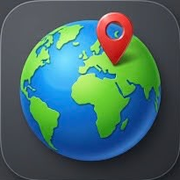
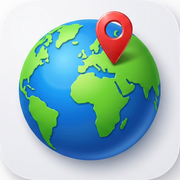
Build Capitals 2.0 (1)

diff --git a/src/AppLogoProvider.swift b/src/AppLogoProvider.swift
@@ -1,0 +1,14 @@
+import SwiftUI
+import UIKit
+
+enum AppLogoProvider {
[1 lines of base64/hex data omitted]
+
+    static let uiImage: UIImage? = {
+        if let bundled = UIImage(named: "AppLogo.jpg") ?? UIImage(named: "AppLogo") {
+            return bundled
+        }
+        guard let data = Data(base64Encoded: base64String) else { return nil }
+        return UIImage(data: data)
+    }()
+}

diff --git a/src/QuizPlayView.swift b/src/QuizPlayView.swift
@@ -1,4 +1,5 @@
 import SwiftUI
+import UIKit
 
 struct QuizPlayView: View {
     @EnvironmentObject var store: GameStore
@@ -135,7 +136,7 @@ struct QuizPlayView: View {
                                     .foregroundColor(.white)
                                     .multilineTextAlignment(.center)
                             }
-                            .padding(.bottom, 6)
+                            .padding(.bottom, 13)
                         }
                         .padding(.horizontal, 14)
                         .padding(.vertical, 11)
@@ -193,16 +194,18 @@ struct QuizPlayView: View {
                                     Image(systemName: "building.columns.fill")
                                         .foregroundColor(.white.opacity(0.45))
 
-                                    TextField("Enter capital city...", text: $store.typedText, onCommit: {
-                                        if !store.submissionState.isSubmitted {
-                                            store.submitAnswer()
+                                    AutoFocusTextField(
+                                        text: $store.typedText,
+                                        placeholder: "Enter capital city...",
+                                        isEditable: !store.submissionState.isSubmitted,
+                                        triggerKey: "\(country.id)-\(store.totalAttempts)-\(store.completedCount)-\(store.repeatQueuedCountTotal)",
+                                        onCommit: {
+                                            if !store.submissionState.isSubmitted {
+                                                store.submitAnswer()
+                                            }
                                         }
-                                    })
-                                    .font(.system(size: 17, weight: .semibold))
-                                    .foregroundColor(.white)
-                                    .disableAutocorrection(true)
-                                    .autocapitalization(.words)
-                                    .disabled(store.submissionState.isSubmitted)
+                                    )
+                                    .frame(height: 24)
 
                                     if !store.typedText.isEmpty && !store.submissionState.isSubmitted {
                                         Button(action: {
@@ -568,6 +571,96 @@ private struct SubmissionFeedbackView: View {
                     .foregroundColor(.white)
                 }
                 .buttonStyle(PlainButtonStyle())
+            }
+        }
+    }
+}
+
+// MARK: - Auto-Focusing UIKit TextField Wrapper (Automatically shows keyboard whenever typing is active)
+struct AutoFocusTextField: UIViewRepresentable {
+    @Binding var text: String
+    var placeholder: String
+    var isEditable: Bool
+    var triggerKey: String
+    var onCommit: () -> Void
+
+    class Coordinator: NSObject, UITextFieldDelegate {
+        var parent: AutoFocusTextField
+        var lastTriggerKey: String = ""
+        var wasEditable: Bool = false
+
+        init(_ parent: AutoFocusTextField) {
+            self.parent = parent
+        }
+
+        @objc func textDidChange(_ textField: UITextField) {
+            let current = textField.text ?? ""
+            if parent.text != current {
+                parent.text = current
+            }
+        }
+
+        func textFieldShouldReturn(_ textField: UITextField) -> Bool {
+            if parent.isEditable {
+                parent.onCommit()
+            }
+            return false
+        }
+    }
+
+    func makeCoordinator() -> Coordinator {
+        Coordinator(self)
+    }
+
+    func makeUIView(context: Context) -> UITextField {
+        let textField = UITextField(frame: .zero)
+        textField.delegate = context.coordinator
+        textField.font = UIFont.systemFont(ofSize: 17, weight: .semibold)
+        textField.textColor = UIColor.white
+        textField.tintColor = UIColor(red: 0.20, green: 0.78, blue: 0.96, alpha: 1.0)
+        textField.autocorrectionType = .no
+        textField.spellCheckingType = .no
+        textField.autocapitalizationType = .words
+        textField.returnKeyType = .done
+        textField.attributedPlaceholder = NSAttributedString(
+            string: placeholder,
+            attributes: [.foregroundColor: UIColor.white.withAlphaComponent(0.38)]
+        )
+        textField.setContentHuggingPriority(.defaultLow, for: .horizontal)
+        textField.setContentCompressionResistancePriority(.defaultLow, for: .horizontal)
+        textField.addTarget(
+            context.coordinator,
+            action: #selector(Coordinator.textDidChange(_:)),
+            for: .editingChanged
+        )
+        DispatchQueue.main.asyncAfter(deadline: .now() + 0.15) {
+            if self.isEditable {
+                textField.becomeFirstResponder()
+            }
+        }
+        return textField
+    }
+
+    func updateUIView(_ uiView: UITextField, context: Context) {
+        context.coordinator.parent = self
+
+        if uiView.text != text {
+            uiView.text = text
+        }
+
+        uiView.isEnabled = isEditable
+
+        let becameEditable = isEditable && !context.coordinator.wasEditable
+        let keyChangedWhileEditable = isEditable && (context.coordinator.lastTriggerKey != triggerKey)
+
+        context.coordinator.wasEditable = isEditable
+        context.coordinator.lastTriggerKey = triggerKey
+
+        if becameEditable || keyChangedWhileEditable {
+            DispatchQueue.main.async {
+                if self.isEditable && !uiView.isFirstResponder {
+                    uiView.becomeFirstResponder()
+                }
             }
         }
     }

diff --git a/src/HomeMenuView.swift b/src/HomeMenuView.swift
@@ -9,22 +9,33 @@ struct HomeMenuView: View {
             VStack(spacing: 22) {
                 // MARK: - Header
                 VStack(spacing: 8) {
-                    ZStack {
-                        Circle()
-                            .fill(
-                                LinearGradient(
-                                    colors: [Color.blue.opacity(0.35), Color.appCyan.opacity(0.15)],
-                                    startPoint: .topLeading,
-                                    endPoint: .bottomTrailing
+                    if let logoImage = AppLogoProvider.uiImage {
+                        Image(uiImage: logoImage)
+                            .resizable()
+                            .scaledToFill()
+                            .frame(width: 78, height: 78)
+                            .scaleEffect(1.03)
+                            .clipShape(RoundedRectangle(cornerRadius: 19, style: .continuous))
+                            .shadow(color: Color.black.opacity(0.35), radius: 8, x: 0, y: 4)
+                            .padding(.top, 8)
+                    } else {
+                        ZStack {
+                            RoundedRectangle(cornerRadius: 19, style: .continuous)
+                                .fill(
+                                    LinearGradient(
+                                        colors: [Color.blue.opacity(0.35), Color.appCyan.opacity(0.15)],
+                                        startPoint: .topLeading,
+                                        endPoint: .bottomTrailing
+                                    )
                                 )
-                            )
-                            .frame(width: 72, height: 72)
+                                .frame(width: 78, height: 78)
 
-                        Image(systemName: "globe")
-                            .font(.system(size: 36, weight: .bold))
-                            .foregroundColor(.appCyan)
+                            Image(systemName: "globe")
+                                .font(.system(size: 36, weight: .bold))
+                                .foregroundColor(.appCyan)
+                        }
+                        .padding(.top, 8)
                     }
-                    .padding(.top, 8)
 
                     Text("Capital Trainer")
                         .font(.system(size: 30, weight: .heavy, design: .rounded))
